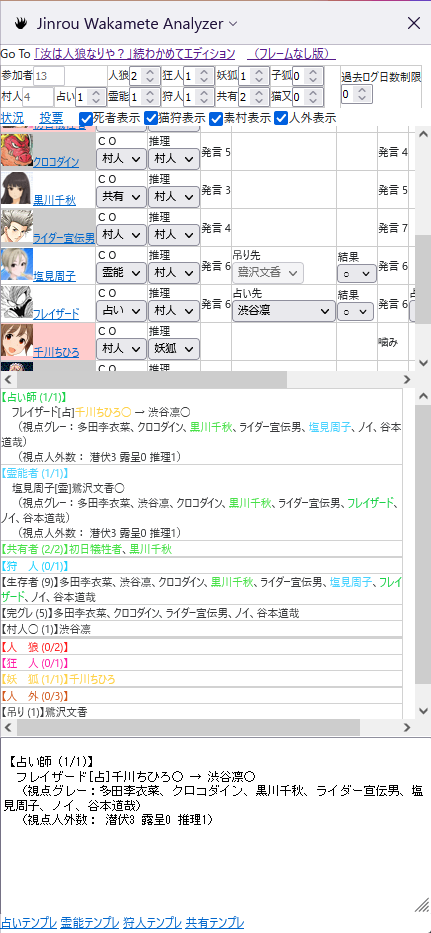
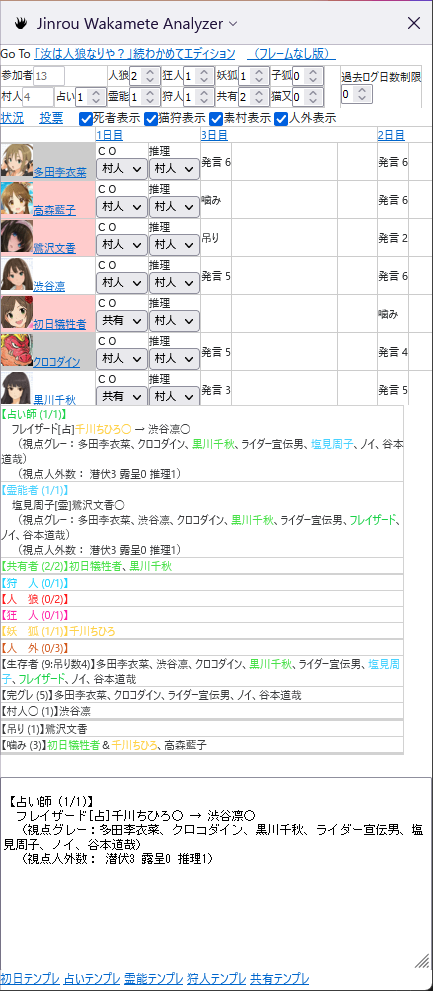
Readme.md更新

diff --git a/README.md b/README.md
@@ -41,7 +41,8 @@ Japanese only, because Wakamete Server can support only Japanese.
 
 1. アドオンマネージャー（ about:addons ）にアクセスし、インストールされている Jinrou Wakamete Analyzer のバージョンを確認してください。  
    右上のメニュー（横線３本アイコン）→アドオン、あるいは、Ctrl+Shift+Aでもアクセスできます。
-1. [Firefox拡張機能インストールページ](https://addons.mozilla.org/ja/firefox/addon/jinrou-wakamete-analyzer/)  にアクセスし、「詳しい情報」メニューから最新バージョンを確認してください。  
+1. [Firefox拡張機能インストールページ](https://addons.mozilla.org/ja/firefox/addon/jinrou-wakamete-analyzer/)  にアクセスし、
+   「詳しい情報」メニューから最新バージョンを確認してください。  
    バージョンが同じであれば、最新化されていますのでここで終わりです。
 1. アドオンマネージャー、先程バージョンを確認した画面にて、設定アイコン（右上の歯車）から「今すぐ更新を確認」をクリックします。
 1. 同じ画面にて、インストールされている Jinrou Wakamete Analyzer のバージョンが最新と一致していれば完了です。
@@ -50,9 +51,13 @@ Japanese only, because Wakamete Server can support only Japanese.
 
 1. 本ページ右上（右中？）の、「Clone or download」から、Download ZIP にてファイルをダウンロードする。
 1. ファイルを解凍し、ソースコードを適宜編集する。
-1. [MDN Web Docs : 初めての拡張機能 ～パッケージ化と公開～](https://developer.mozilla.org/ja/docs/Mozilla/Add-ons/WebExtensions/Your_first_WebExtension#packaging_and_publishing) より [Package your extension](https://extensionworkshop.com/documentation/publish/package-your-extension/) へアクセスして必要なファイル一式をZip圧縮、 [Temporary installation in Firefox](https://extensionworkshop.com/documentation/develop/temporary-installation-in-firefox/) に従いインストールする。  
+1. [MDN Web Docs : 初めての拡張機能 ～パッケージ化と公開～](https://developer.mozilla.org/ja/docs/Mozilla/Add-ons/WebExtensions/Your_first_WebExtension#packaging_and_publishing) より
+   [Package your extension](https://extensionworkshop.com/documentation/publish/package-your-extension/) へアクセスして必要なファイル一式をZip圧縮、
+   [Temporary installation in Firefox](https://extensionworkshop.com/documentation/develop/temporary-installation-in-firefox/) に従いインストールする。  
    なお、起動のたびにインストールする必要がある。
-1. 満足の行くカスタマイズができた場合、ご自身でカスタマイズしたパッケージを配布し、通常の拡張機能としてインストールすることができる。 [Distribute pre-release versions](https://extensionworkshop.com/documentation/publish/distribute-pre-release-versions/) および [Submitting an add-on](https://extensionworkshop.com/documentation/publish/submitting-an-add-on/) を参照すること。
+1. 満足の行くカスタマイズができた場合、ご自身でカスタマイズしたパッケージを配布し、通常の拡張機能としてインストールすることができる。
+   [Distribute pre-release versions](https://extensionworkshop.com/documentation/publish/distribute-pre-release-versions/) および
+   [Submitting an add-on](https://extensionworkshop.com/documentation/publish/submitting-an-add-on/) を参照すること。
     1. このとき、 manifest.json はご自身の情報に合わせて必ず書き換えること。
 
 ## How to Use （どうやって使うの？）
@@ -83,11 +88,11 @@ Japanese only, because Wakamete Server can support only Japanese.
         自動更新を止めるためには、自動更新タイミングの前に、自ら更新する、発言を入力する、といった操作を行う。
    1. 夜の占い師は、占い完了するまで自動更新は行わない。いいからすぐ占え。
    1. 行動内容あるいは行動対象の変更は、発言入力と同等に、自動更新の停止フラグとしてみなす。  
-1. 発言の入力時、１行あたりの文字数が４０文字を超えると、文字入力エリアが赤くなる（webカラー名 pink）。  
+1. 発言の入力時、１行あたりの文字数が４０文字を超えると、文字入力エリアが赤くなる（<span style="color:black;background-color:pink">webカラー名 pink</span>）。  
    ![ログ破壊警告](./doc/usage-8.png "ログ破壊警告")
    これは、潜在的にわかめてサーバ禁止行為の【ログ破壊】リスクがあることを意味する。  
    ただしリスク検出のみであり、必ずログ破壊になるとは限らないので、そのまま発言することに支障はない。
-1. 発言の入力時、行動内容が「発言 \[発言内容\]」かつ、行動対象が「------------」以外である（行動対象がどなたか選択されている）場合、「行動/更新」ボタンの文字が赤くなり、押下が禁止される。  
+1. 発言の入力時、行動内容が「発言 \[発言内容\]」かつ、行動対象が「------------」以外である（行動対象がどなたか選択されている）場合、「行動/更新」ボタンの文字が赤くなり（<span style="color:#ff0000">カラーコード #ff0000</span>）、押下が禁止される。  
    ![投票操作ミス警告](./doc/usage-9.png "投票操作ミス警告")
    * この機能は、投票漏れを防ぐための注意喚起機能である。行動内容を「投票」に変更し忘れたまま更新し、 **投票したつもりになる突然死事故** を防ぐ機能となる。
    * 行動/更新ボタンを改めて押下可能とするには、行動内容を別のものに変更する。
@@ -95,7 +100,7 @@ Japanese only, because Wakamete Server can support only Japanese.
 
 ### 基本的な使い方２・村参加時の推理サポート
 
-スクリーンショットは、 村（ [153535番【モバマス】年の瀬村](http://jinrou.aa0.netvolante.jp/~jinrou/kako/153535.html) ）の状況である（デバッグモードにて作成）。
+スクリーンショットは、村（[153535番【モバマス】年の瀬村](http://jinrou.aa0.netvolante.jp/~jinrou/kako/153535.html)）の状況である（デバッグモードにて作成）。
 
 1. 起動（サイドバー表示）直後の状態は以下の通り。
    ![インストール直後の状態](./doc/usage-1.png "インストール直後の状態")
@@ -130,10 +135,13 @@ Japanese only, because Wakamete Server can support only Japanese.
            死亡・復活当日においては、その理由を表示する。  
            ただし、最終日の表示が不適切なことがある。
         1. 参加者名のセルについて、以下の色分けをしている。  
-            1. 死者は赤セル（カラーコード #ffcccc）である。
-            1. 役職CO・人外推理がなく、占い師からの占い判定結果もない生存者は、灰色セル（カラーコード #cccccc）である。
-            1. 役職CO・人外推理がなく、１名以上の占い師から●（人狼判定）をもらっている生存者は、黒セル（カラーコード #888888）である。
-            1. 上記以外は、白セル（カラーコード #ffffff）である。
+            1. 死者は赤セル（<span style="color:black;background-color:#ffcccc">カラーコード #ffcccc</span>）である。
+            1. 役職CO・人外推理がなく、占い師からの占い判定結果もない生存者は、
+               灰色セル（<span style="color:black;background-color:#cccccc">カラーコード #cccccc</span>）である。
+            1. 役職CO・人外推理がなく、１名以上の占い師から●（人狼判定）をもらっている生存者は、
+               黒セル（<span style="color:black;background-color:#888888">カラーコード #888888</span>）である。
+            1. 上記以外は、
+               白セル（<span style="color:black;background-color:#ffffff">カラーコード #ffffff</span>）である。
         1. 推理表上部の、「死者表示」「猫狩表示」「素村表示」「人外表示」各々のチェックボックスを用いて、表示する参加者の絞り込みを行うことができる。  
            上の「３日目昼」スクリーンショットは、死亡者と素村を表示から除外し、表示を絞り込んだもの。
             1. 「死者表示」チェックボックスを外すと、推理表の参加者リストから、死亡者を確認できなくなる。
@@ -147,27 +155,29 @@ Japanese only, because Wakamete Server can support only Japanese.
 1. サイドバー中央下部の **状況表示領域** は、配役情報、村のログ、および推理表の入力に応じて、推理に役立つ情報が適宜表示される。
     1. 状況表示領域は、「状況表示」「投票表示」「発言表示」の３つのモードが存在する。
     1. 状況表示モードへは、推理表上部「状況」のリンクをクリックすることで遷移する。表示イメージは、推理表の項を参照。
-        1. 役職CO者、人外推理者については、名前および投票結果に文字色がつく。文字色は、わかめて過去ログの役職者に準ずる。人外推理者は人狼とも妖狐ともつかない色（カラーコード #cc4400、橙色～琥珀色）をつけている。
+        1. 役職CO者、人外推理者については、名前および投票結果に文字色がつく。文字色は、わかめて過去ログの役職者に準ずる。
+           人外推理者は人狼とも妖狐ともつかない色（<span style="color:#cc4400">カラーコード #cc4400、橙色～琥珀色</span>）をつけている。
     1. 投票表示モードへは、推理表上部「投票」のリンクをクリックすることで遷移する。  
        ![サイドバーの状態「投票」](./doc/usage-3.png "サイドバーの状態「投票」")  
         1. 投票は日付順・投票回数順で表示される（推理表と異なり、逆順ではない）。
-        1. 役職CO者、人外推理者については、名前および投票結果に文字色がつく。文字色は状況表示モードと同じものとする。
-        1. 本ツールがグレランと判断した場合、その投票には以下のセル色がつく。
-            * 最多得票者へ投票した、役職CO者以外のセル → 赤を薄くした色（カラーコード #ffcccc）。
-            * 役職CO者以外で得票0票者のセル → 黄色を薄くした色（カラーコード #ffffcc）。
-            * 上記２つに両方当てはまる者のセル → 上記２つの中間色（カラーコード #ffe4cc）。
-            * それ以外のセル → 灰色（カラーコード #cccccc）。
+        2. 役職CO者、人外推理者については、名前および投票結果に文字色がつく。文字色は状況表示モードと同じものとする。
+        3. 本ツールがグレランと判断した場合、その投票には以下のセル色がつく。
+            * 最多得票者へ投票した、役職CO者以外のセル → 赤を薄くした色（<span style="color:black;background-color:#ffcccc">カラーコード #ffcccc</span>）。
+            * 役職CO者以外で得票0票者のセル → 黄色を薄くした色（<span style="color:black;background-color:#ffffcc">カラーコード #ffffcc</span>）。
+            * 上記２つに両方当てはまる者のセル → 上記２つの中間色（<span style="color:black;background-color:#ffe4cc">カラーコード #ffe4cc</span>）。
+            * それ以外のセル → 灰色（<span style="color:black;background-color:#cccccc">カラーコード #cccccc</span>）。
             * （参考）本ツールでのグレラン判断基準は、「最多得票者の得票数が、投票者の半分未満」と定義する。  
               したがって、全ランなど特に指示がない投票もグレランに含むことがあり、また、消極的村柱投票で得票が集中しすぎた場合はグレラン指示があってもグレランに含まない。
-        1. 本ツールが２回連続グレランと判断した場合に、役職CO者以外が投票先の変更を行った場合、文字フォントを変更する（モノスペース・太字）。
+        4. 本ツールが２回連続グレランと判断した場合に、役職CO者以外が投票先の変更を行った場合、文字フォントを変更する
+           （<span style="font-weight:bolder;font-family:monospace;">モノスペース・太字</span>）。
     1. 発言表示モードへは、推理表内、参加者の名前、または、日付をクリックすることで遷移する。  
        ![サイドバーの状態「発言」](./doc/usage-4.png "サイドバーの状態「発言」")  
         1. 図は日付をクリックした場合のもの（参加者名をクリックした場合の図は後掲）。わかめてサーバと同様に、下から日付順にて表示される。
-        1. 役職CO者、人外推理者については、名前および投票結果に文字色がつく。文字色は状況表示モードと同じものとする。
-        1. 「発言強く」および「発言弱く」も同様に表示されるが、「発言弱く」は発言強調に利用されている実情を顧みて、通常発言と同じフォントサイズとしている。
-        1. 夜の会話については、参加者から見えているもののみ表示される。
-        1. 日付の区切りは「◆◆◆◆◆ 日付説明 ◆◆◆◆◆」と表示される。
-        1. 日付をクリックして遷移した場合、前日夜と当日朝の組み合わせにて表示する（例：２日目は、１日目夜と２日目朝を表示対象とする）。
+        2. 役職CO者、人外推理者については、名前および投票結果に文字色がつく。文字色は状況表示モードと同じものとする。
+        3. 「発言強く」および「発言弱く」も同様に表示されるが、「発言弱く」は発言強調に利用されている実情を顧みて、通常発言と同じフォントサイズとしている。
+        4. 夜の会話については、参加者から見えているもののみ表示される。
+        5. 日付の区切りは「◆◆◆◆◆ 日付説明 ◆◆◆◆◆」と表示される。
+        6. 日付をクリックして遷移した場合、前日夜と当日朝の組み合わせにて表示する（例：２日目は、１日目夜と２日目朝を表示対象とする）。
 
 1. サイドバー下部にはメモエリアを準備している。
    このメモエリアに連携して、状況表示領域エリアの内容、および、役職者の発言テンプレートを書き出す機能がある。
@@ -179,11 +189,16 @@ Japanese only, because Wakamete Server can support only Japanese.
        ![サイドバーの状態「メモエリアへの書き出し（２）投票表示」](./doc/usage-5-1.png "サイドバーの状態「メモエリアへの書き出し（２）投票表示」")  
     1. 発言表示モードの場合、状況表示領域に示された特定の発言をクリックすると、その発言のみがメモエリアに書き出される。  
        ![サイドバーの状態「メモエリアへの書き出し（３）発言表示」](./doc/usage-5-2.png "サイドバーの状態「メモエリアへの書き出し（３）発言表示」")  
-    1. メモエリア下部、「占いテンプレ」のリンクをクリックすると、占い師の発言テンプレートがメモエリアに書き出される。イメージ略。  
-    1. メモエリア下部、「霊能テンプレ」のリンクをクリックすると、霊能者の発言テンプレートがメモエリアに書き出される。イメージ略。  
-    1. メモエリア下部、「狩人テンプレ」のリンクをクリックすると、狩人の発言テンプレートがメモエリアに書き出される。イメージ略。
+    1. メモエリア下部、「初日テンプレ」のリンクをクリックすると、役職一覧および参加者一覧がメモエリアに書き出される。  
+       ![サイドバーの状態「メモエリアへの書き出し（４）初日テンプレ」](./doc/usage-6-1.png "サイドバーの状態「メモエリアへの書き出し（４）初日テンプレ」")  
+    1. メモエリア下部、「占いテンプレ」のリンクをクリックすると、占い師の発言テンプレートがメモエリアに書き出される。  
+       ![サイドバーの状態「メモエリアへの書き出し（５）占いテンプレ」](./doc/usage-6-2.png "サイドバーの状態「メモエリアへの書き出し（５）占いテンプレ」")  
+    1. メモエリア下部、「霊能テンプレ」のリンクをクリックすると、霊能者の発言テンプレートがメモエリアに書き出される。  
+       ![サイドバーの状態「メモエリアへの書き出し（６）霊能テンプレ」](./doc/usage-6-3.png "サイドバーの状態「メモエリアへの書き出し（６）霊能テンプレ」")  
+    1. メモエリア下部、「狩人テンプレ」のリンクをクリックすると、狩人の発言テンプレートがメモエリアに書き出される。  
+       ![サイドバーの状態「メモエリアへの書き出し（７）狩人テンプレ」](./doc/usage-6-4.png "サイドバーの状態「メモエリアへの書き出し（７）狩人テンプレ」")  
     1. メモエリア下部、「共有テンプレ」のリンクをクリックすると、共有者の発言テンプレートがメモエリアに書き出される。  
-       ![サイドバーの状態「メモエリアへの書き出し（４）共有テンプレ」](./doc/usage-6.png "サイドバーの状態「メモエリアへの書き出し（４）共有テンプレ」")  
+       ![サイドバーの状態「メモエリアへの書き出し（８）共有テンプレ」](./doc/usage-6.png "サイドバーの状態「メモエリアへの書き出し（８）共有テンプレ」")  
 
 1. 細かいテクニックとしては、以下のポイントを押さえるとよい。
     1. 推理表入力について、CO状況の入力は早めに行うとよい。  
